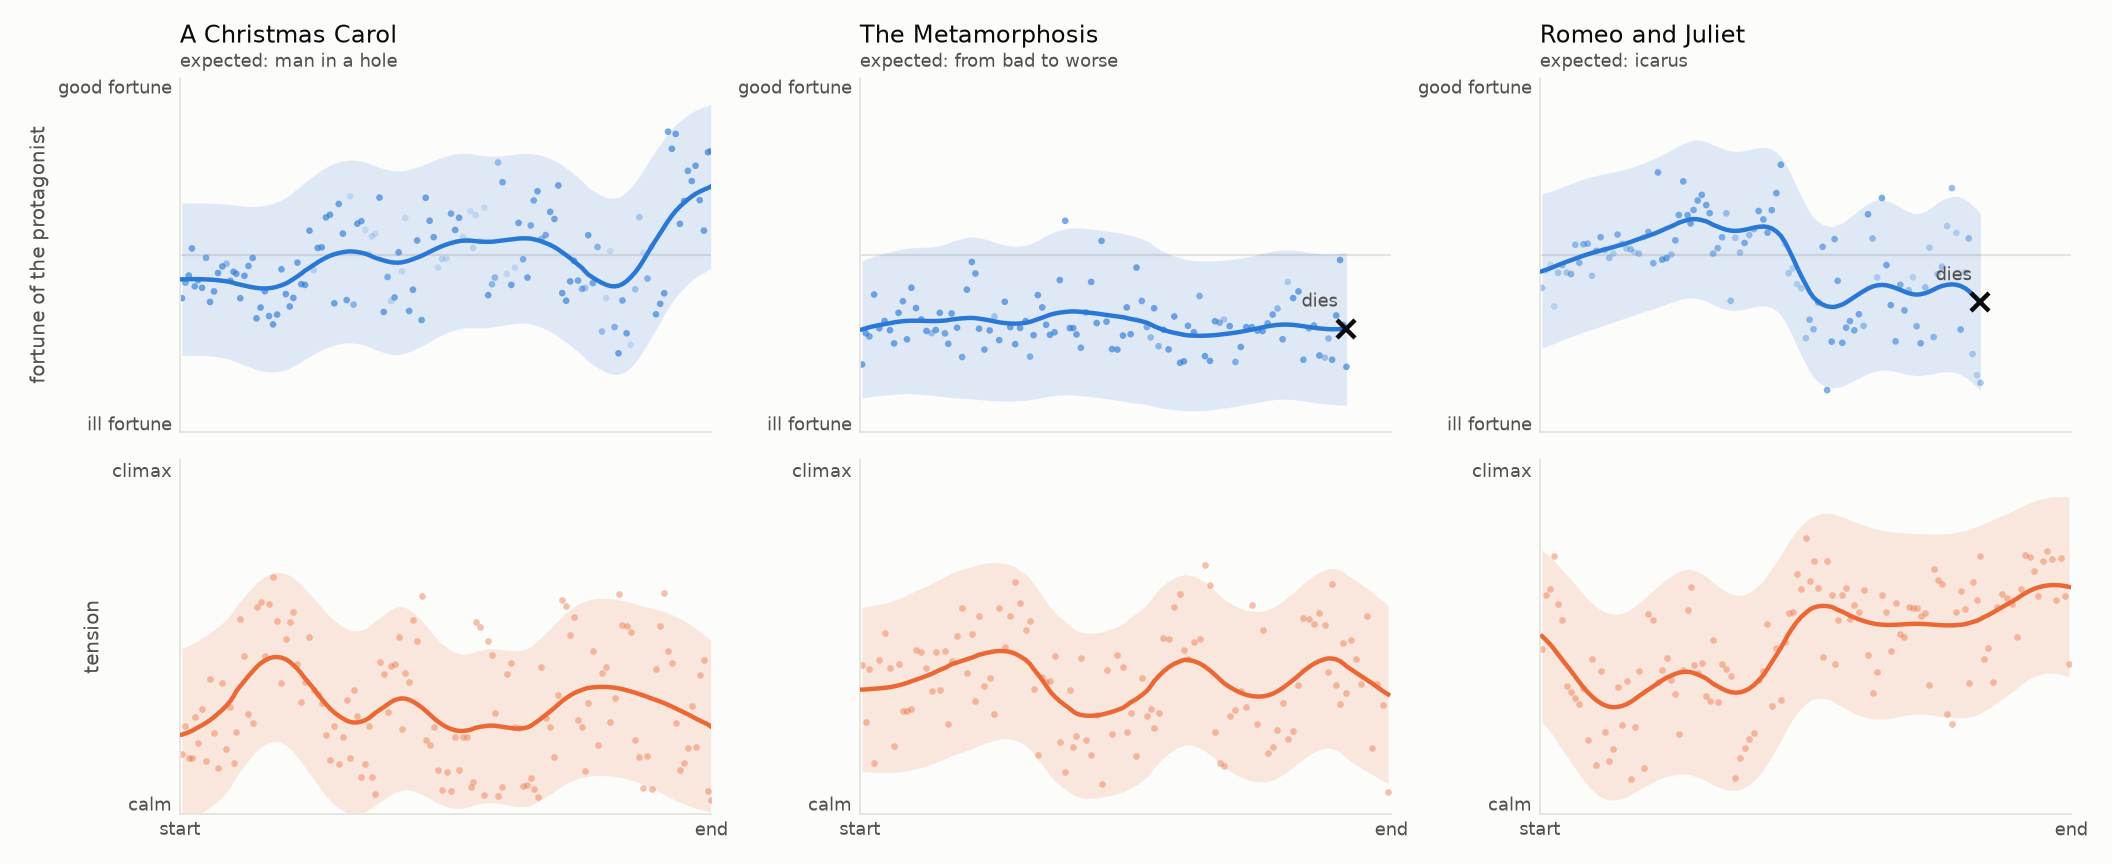
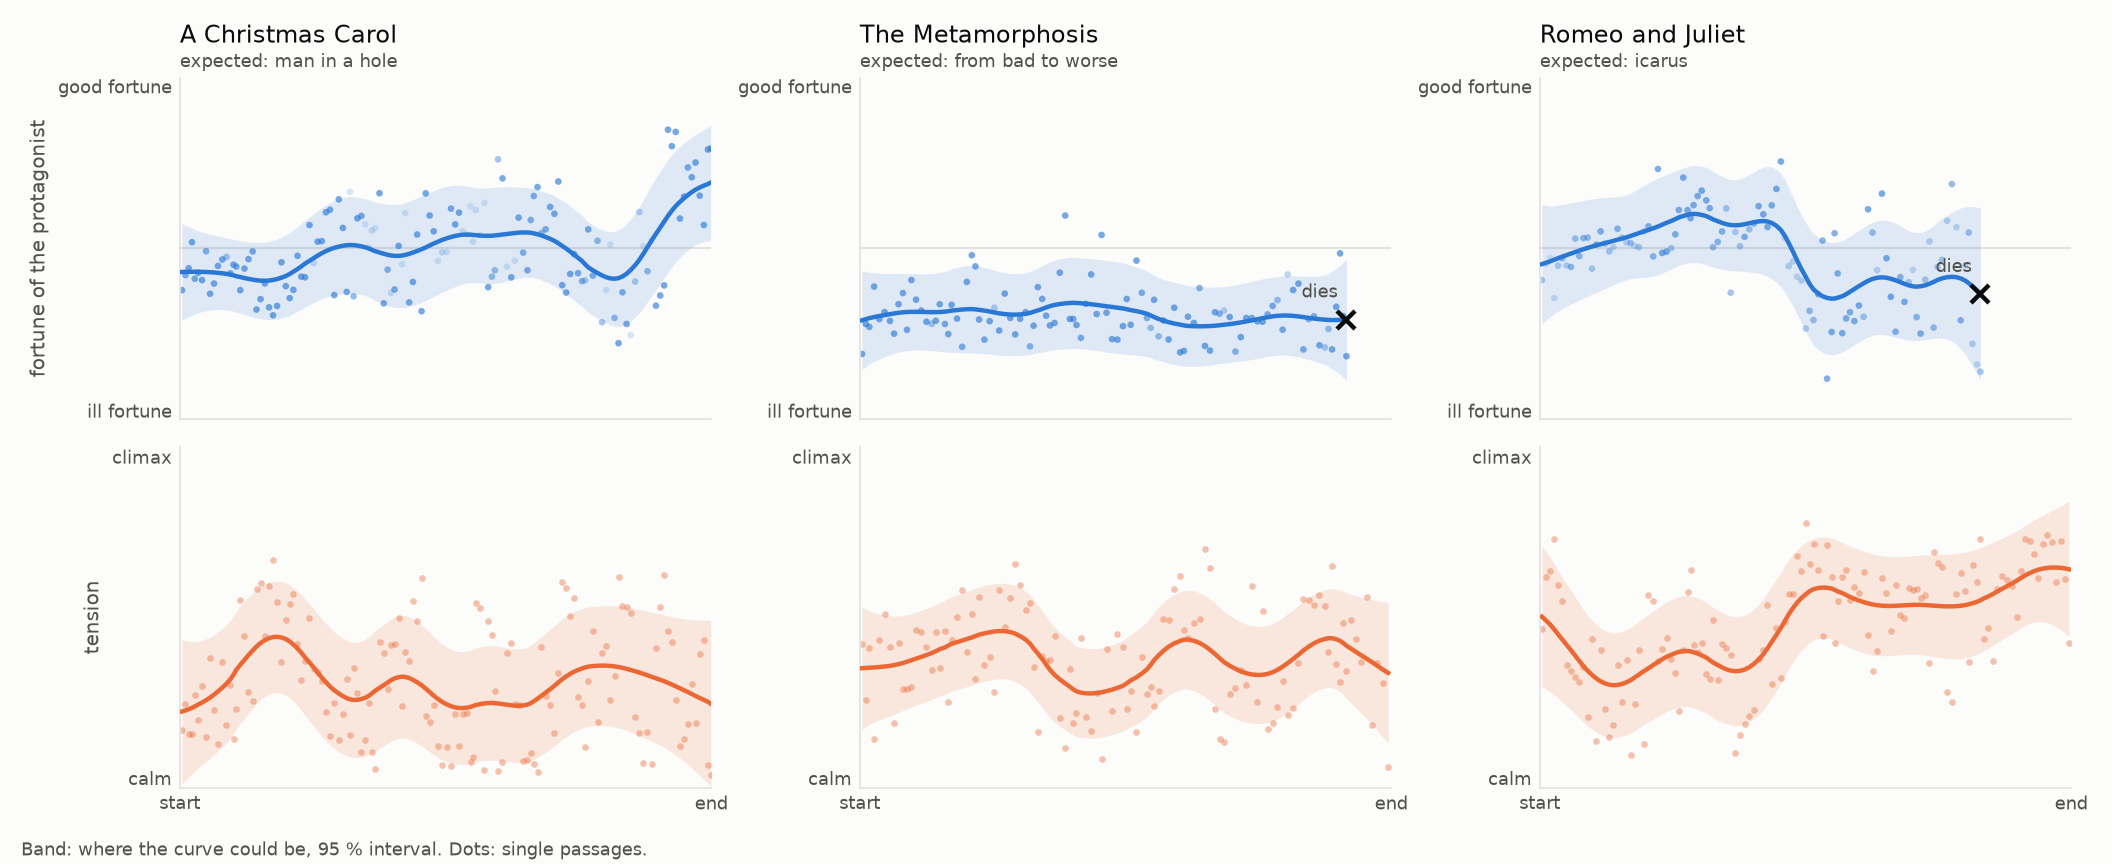
fix ALE-222: make the band the 95 % interval of the curve
fix ALE-223: add plot --relative, each curve on its own book's scale

The band combines Kev's doubt with passage disagreement over the effective
passage count, corrected for lag-1 autocorrelation. Calibrated on synthetic
readings (93-98 % coverage) and against the renamed Romeo and Juliet reading.
The relative view shows The Metamorphosis's shape is below the noise.

diff --git a/src/story_shapes/plot.py b/src/story_shapes/plot.py
@@ -18,6 +18,7 @@ MUTED = "#52514e"
 GRID = "#e4e3df"
 FORTUNE = "#2a78d6"
 TENSION = "#eb6834"
+RELATIVE_LIMIT = 3.2  # standard deviations shown in the relative view
 
 
 def load(path: Path) -> list[dict]:
@@ -25,10 +26,12 @@ def load(path: Path) -> list[dict]:
     return sorted(records, key=lambda record: record["index"])
 
 
-def series(readings: list[dict], question: str, n_levels: int, signed: bool, weights=None, sigma_frac=0.05):
-    """Per-passage values, the smoothed curve and the smoothed spread, all on the plotting scale.
+def series(readings: list[dict], question: str, n_levels: int, signed: bool, weights=None, sigma_frac=0.05,
+           relative=False):
+    """Per-passage values, the smoothed curve and the half-width of its 95 % band, on the plotting scale.
 
-    Signed scales run from -1 (lowest level) to +1; unsigned ones from 0 to 1.
+    Signed scales run from -1 (lowest level) to +1; unsigned ones from 0 to 1. With `relative`, all
+    three are moved onto the book's own scale (see `curve.relative`).
     """
     probabilities = [record["answers"][question]["probabilities"] for record in readings]
     levels = np.array([curve.mean_level(p) for p in probabilities])
@@ -38,7 +41,10 @@ def series(readings: list[dict], question: str, n_levels: int, signed: bool, wei
     else:
         values, spreads = levels / (n_levels - 1), spreads / (n_levels - 1)
     sigma = max(1.5, sigma_frac * len(readings))
-    return values, curve.smooth(values, weights, sigma), curve.smooth(spreads, weights, sigma)
+    line, half = curve.confidence(values, spreads, weights, sigma)
+    if relative:
+        line, values, half = curve.relative(line, values, half)
+    return values, line, half
 
 
 def _panel(ax, x, values, line, band, color, alphas):
@@ -55,7 +61,8 @@ def _panel(ax, x, values, line, band, color, alphas):
     ax.set_xticks([0, 0.5, 1], ["start", "", "end"])
 
 
-def draw(books: list[dict], readings_dir: Path, out: Path) -> None:
+def draw(books: list[dict], readings_dir: Path, out: Path, relative: bool = False) -> None:
+    """One column per book. With `relative`, each curve is drawn on its own book's scale."""
     fig, axes = plt.subplots(2, len(books), figsize=(4.4 * len(books), 5.4), sharex=True, squeeze=False)
     fig.patch.set_facecolor(SURFACE)
     for column, book in enumerate(books):
@@ -67,7 +74,8 @@ def draw(books: list[dict], readings_dir: Path, out: Path) -> None:
         dead = [record["answers"].get("dead", {}).get("noul", 0.0) for record in readings]
         cut = curve.death_cut(dead)
         end = len(readings) if cut is None else cut + 1
-        fortune = series(readings[:end], "fortune", len(FORTUNE_LEVELS), signed=True, weights=0.1 + 0.9 * present[:end])
+        fortune = series(readings[:end], "fortune", len(FORTUNE_LEVELS), signed=True, weights=0.1 + 0.9 * present[:end],
+                         relative=relative)
         top = axes[0][column]
         _panel(top, x[:end], *fortune, FORTUNE, alphas=0.15 + 0.5 * present[:end])
         if cut is not None:
@@ -75,21 +83,33 @@ def draw(books: list[dict], readings_dir: Path, out: Path) -> None:
             top.annotate("dies", (x[cut], fortune[1][-1]), xytext=(-4, 10), textcoords="offset points",
                          ha="right", color=MUTED, fontsize=8)
         top.axhline(0, color=GRID, linewidth=1, zorder=0)
-        top.set_ylim(-1.05, 1.05)
-        top.set_yticks([-1, 0, 1], ["ill fortune", "", "good fortune"])
+        if relative:
+            top.set_ylim(-RELATIVE_LIMIT, RELATIVE_LIMIT)
+            top.set_yticks([-2, 0, 2], ["worse than\nusual", "", "better than\nusual"])
+        else:
+            top.set_ylim(-1.05, 1.05)
+            top.set_yticks([-1, 0, 1], ["ill fortune", "", "good fortune"])
         top.set_title(book["title"], color=INK, fontsize=11, loc="left", pad=16)
         top.text(0, 1.02, f"expected: {book['expected_shape']}", transform=top.transAxes,
                  color=MUTED, fontsize=8, va="bottom")
 
-        tension = series(readings, "tension", len(TENSION_LEVELS), signed=False)
+        tension = series(readings, "tension", len(TENSION_LEVELS), signed=False, relative=relative)
         bottom = axes[1][column]
         _panel(bottom, x, *tension, TENSION, alphas=0.4)
-        bottom.set_ylim(-0.03, 1.03)
-        bottom.set_yticks([0, 1], ["calm", "climax"])
+        if relative:
+            bottom.axhline(0, color=GRID, linewidth=1, zorder=0)
+            bottom.set_ylim(-RELATIVE_LIMIT, RELATIVE_LIMIT)
+            bottom.set_yticks([-2, 0, 2], ["calmer than\nusual", "", "tenser than\nusual"])
+        else:
+            bottom.set_ylim(-0.03, 1.03)
+            bottom.set_yticks([0, 1], ["calm", "climax"])
 
     axes[0][0].set_ylabel("fortune of the protagonist", color=MUTED, fontsize=9)
     axes[1][0].set_ylabel("tension", color=MUTED, fontsize=9)
-    fig.tight_layout()
+    scale = "Each curve on its own book's scale: 0 is the book's average, ±1 one standard deviation. " if relative else ""
+    fig.text(0.01, 0.01, f"{scale}Band: where the curve could be, 95 % interval. Dots: single passages.",
+             color=MUTED, fontsize=8)
+    fig.tight_layout(rect=(0, 0.03, 1, 1))
     out.parent.mkdir(parents=True, exist_ok=True)
     fig.savefig(out, dpi=160, facecolor=SURFACE)
 

diff --git a/src/story_shapes/curve.py b/src/story_shapes/curve.py
@@ -34,11 +34,61 @@ def smooth(values, weights=None, sigma: float = 4.0) -> np.ndarray:
     protagonist does not appear; a passage with weight 0 does not pull the curve at all.
     """
     y = np.asarray(values, dtype=float)
-    positions = np.arange(len(y))
+    kernel = _kernel(len(y), weights, sigma)
+    return kernel @ y / kernel.sum(axis=1)
+
+
+def _kernel(n: int, weights, sigma: float) -> np.ndarray:
+    positions = np.arange(n)
     kernel = np.exp(-0.5 * ((positions[:, None] - positions[None, :]) / sigma) ** 2)
     if weights is not None:
         kernel = kernel * np.asarray(weights, dtype=float)[None, :]
-    return kernel @ y / kernel.sum(axis=1)
+    return kernel
+
+
+def lag1_autocorrelation(residuals) -> float:
+    """Correlation between each residual and the next one, floored at 0."""
+    r = np.asarray(residuals, dtype=float)
+    if len(r) < 3 or r[:-1].std() == 0 or r[1:].std() == 0:
+        return 0.0
+    return max(0.0, float(np.corrcoef(r[:-1], r[1:])[0, 1]))
+
+
+def confidence(values, spreads, weights=None, sigma: float = 4.0, z: float = 1.96) -> tuple[np.ndarray, np.ndarray]:
+    """The smoothed curve and the half-width of an interval around it: how far it could be off.
+
+    At each position the variance of what the kernel sees combines how torn the model is inside
+    each passage (`spreads`) with how much the passages disagree with the curve, and is divided by
+    the number of passages that effectively count, (Σw)² / Σw². That number shrinks at the ends of
+    the story, before a cut, and where passages carry little weight, so the band widens there.
+    Neighbouring passages are not independent (a gloomy chapter stays gloomy), so the effective
+    count is further scaled by (1 - ρ) / (1 + ρ), with ρ the lag-1 autocorrelation of the residuals.
+    """
+    y = np.asarray(values, dtype=float)
+    s = np.asarray(spreads, dtype=float)
+    kernel = _kernel(len(y), weights, sigma)
+    total = kernel.sum(axis=1)
+    line = kernel @ y / total
+    variance = (kernel * (s[None, :] ** 2 + (y[None, :] - line[:, None]) ** 2)).sum(axis=1) / total
+    counted = np.ones(len(y), bool) if weights is None else np.asarray(weights, dtype=float) > 0
+    rho = lag1_autocorrelation((y - line)[counted])
+    n_eff = total**2 / (kernel**2).sum(axis=1) * (1 - rho) / (1 + rho)
+    return line, z * np.sqrt(variance / n_eff)
+
+
+def relative(line, values, half) -> tuple[np.ndarray, np.ndarray, np.ndarray]:
+    """Put a curve on its own book's scale: 0 is the book's average, ±1 one standard deviation of the curve.
+
+    A story that stays bad from start to finish looks flat on the absolute scale; here its ups and
+    downs inside the bad fill the height. The per-passage `values` move with the line; the band's
+    `half` width is only scaled. A band that is wide on this scale means the shape is mostly noise
+    blown up.
+    """
+    line = np.asarray(line, dtype=float)
+    centre, scale = line.mean(), line.std()
+    if scale == 0:
+        scale = 1.0
+    return (line - centre) / scale, (np.asarray(values, dtype=float) - centre) / scale, np.asarray(half, dtype=float) / scale
 
 
 def death_cut(

diff --git a/tests/test_curve.py b/tests/test_curve.py
@@ -1,7 +1,7 @@
 import numpy as np
 import pytest
 
-from story_shapes.curve import death_cut, mean_level, smooth, spread, to_unit
+from story_shapes.curve import confidence, death_cut, lag1_autocorrelation, mean_level, relative, smooth, spread, to_unit
 
 
 def test_mean_level_of_a_certain_answer_is_that_level():
@@ -82,3 +82,65 @@ def test_a_death_followed_by_absence_is_not_revoked():
     dead = [0.0] * 3 + [0.9, 0.8, 0.85, 0.9] + [0.05, 0.05, 0.4]
     present = [1.0] * 3 + [0.9, 0.6, 0.6, 0.5] + [0.1, 0.2, 0.3]
     assert death_cut(dead, present=present, revoke=True) == 3
+
+
+def test_the_band_is_zero_when_every_passage_agrees_and_the_model_is_sure():
+    line, half = confidence([0.4] * 30, [0.0] * 30)
+    assert np.allclose(line, 0.4)
+    assert np.allclose(half, 0.0)
+
+
+def test_the_band_widens_when_the_model_is_torn():
+    _, sure = confidence([0.0] * 30, [0.1] * 30)
+    _, torn = confidence([0.0] * 30, [0.6] * 30)
+    assert (torn > sure).all()
+
+
+def test_the_band_widens_at_the_ends_where_fewer_passages_count():
+    _, half = confidence([0.0] * 41, [0.5] * 41, sigma=4)
+    assert half[0] > half[10] and half[-1] > half[20]
+
+
+def test_a_passage_with_zero_weight_does_not_widen_the_band():
+    values, weights = [0.0] * 21, [1.0] * 21
+    values[10], weights[10] = 5.0, 0.0
+    _, half = confidence(values, [0.2] * 21, weights)
+    _, clean = confidence([0.0] * 21, [0.2] * 21, weights)
+    assert np.allclose(half, clean)
+
+
+def test_lag1_autocorrelation_sees_runs_and_ignores_alternation():
+    assert lag1_autocorrelation([1, 1, 1, 1, -1, -1, -1, -1] * 3) > 0.5
+    assert lag1_autocorrelation([1, -1] * 12) == 0.0
+
+
+@pytest.mark.parametrize("rho", [0.0, 0.5])
+def test_the_95_band_covers_the_true_curve_about_95_percent_of_the_time(rho):
+    # passages drawn around a known curve, with noise that is independent or runs in streaks
+    rng = np.random.default_rng(7)
+    n, hits, total = 120, 0, 0
+    truth = 0.4 * np.sin(np.linspace(0, 2 * np.pi, n))
+    for _ in range(200):
+        noise = np.zeros(n)
+        for i in range(n):
+            noise[i] = (rho * noise[i - 1] if i else 0) + rng.normal(0, 0.35)
+        line, half = confidence(truth + noise, np.full(n, 0.3), sigma=6)
+        inner = slice(10, n - 10)  # the smoothing itself bends the curve at the ends
+        hits += (np.abs(line - truth)[inner] <= half[inner]).sum()
+        total += n - 20
+    assert 0.9 <= hits / total <= 0.995
+
+
+def test_relative_centres_and_scales_the_line_and_moves_passages_and_band_with_it():
+    raw = [-0.9, -0.7, -0.5, -0.7]
+    line, values, half = relative(raw, [-1.0, -0.5, -0.5, -1.0], [0.1] * 4)
+    assert line.mean() == pytest.approx(0) and line.std() == pytest.approx(1)
+    assert line.argmax() == 2
+    # a passage sitting on the curve stays on it
+    assert values[2] == pytest.approx(line[2])
+    assert np.allclose(half, 0.1 / np.std(raw))
+
+
+def test_relative_leaves_a_flat_curve_flat():
+    line, _, _ = relative([0.3] * 5, [0.3] * 5, [0.0] * 5)
+    assert np.allclose(line, 0)

diff --git a/src/story_shapes/cli.py b/src/story_shapes/cli.py
@@ -132,6 +132,7 @@ def main(argv: list[str] | None = None) -> int:
     plot_cmd = commands.add_parser("plot", help="draw the curves of books already read")
     plot_cmd.add_argument("books", nargs="+")
     plot_cmd.add_argument("--out", type=Path, default=ROOT / "data" / "plots" / "shapes.png")
+    plot_cmd.add_argument("--relative", action="store_true", help="draw each curve on its own book's scale")
     eval_cmd = commands.add_parser("eval", help="does the model read fortune or only tone? (ALE-198)")
     eval_cmd.add_argument("action", choices=["run", "report", "tune", "deaths"])
     eval_cmd.add_argument("--fresh", action="store_true", help="discard cached answers and start over")
@@ -173,7 +174,7 @@ def main(argv: list[str] | None = None) -> int:
     else:
         from story_shapes import plot
 
-        plot.draw([books[book_id] for book_id in ids], READINGS_DIR, args.out)
+        plot.draw([books[book_id] for book_id in ids], READINGS_DIR, args.out, relative=args.relative)
         print(args.out)
     return 0
 

diff --git a/README.md b/README.md
@@ -51,8 +51,20 @@ What that says:
   false death instead of the tomb. Rules tuned on 16 development stories (real, faked and dreamt
   deaths, `eval deaths`) did no better on the books: asked one passage at a time, "is the
   protagonist dead?" cannot tell a believed death from a real one.
-- The band shows how torn the model is on each passage; it will become the uncertainty of the
-  curve.
+- The band says how far the curve could be off: a 95 % interval that grows when passages
+  disagree, when Kev is torn between levels, and where few passages count (the ends, a cut,
+  passages without the protagonist). Neighbouring passages are not independent, so the count is
+  corrected for their correlation. Checked two ways: on synthetic readings around a known curve it
+  covers the truth 93–98 % of the time, and the renamed reading of *Romeo and Juliet* stays inside
+  it everywhere. Leaving out Kev's doubt halves the band but lets the renamed reading escape it on
+  15 % of the story, so the doubt stays in.
+- `plot --relative` draws each curve on its own book's scale (0 is the book's average, ±1 one
+  standard deviation). It answers the flat *Metamorphosis* honestly: the band then fills the whole
+  height, so Gregor's ups and downs inside the bad are below what 111 passages can resolve. The
+  absolute view says what can be said: his fortune stays clearly bad from start to end. Scrooge's
+  late rise and Romeo's fall keep their shape.
+
+  ![The same curves, each on its own book's scale](docs/relative.png)
 
 ## How it works
 

diff --git a/CLAUDE.md b/CLAUDE.md
@@ -19,7 +19,10 @@ Bitácora: ALE
   holds the text hash, chunking, questions and model, and `read` refuses to resume on a mismatch.
   Changing the chunking or the questions means rerunning with `--fresh`.
 - `story-shapes plot <book>...` turns the readings into curves: the expected level of each score,
-  smoothed over neighbouring passages, with the spread of the probabilities as the band.
+  smoothed over neighbouring passages. The band is a 95 % interval of the smoothed curve
+  (`curve.confidence`: kernel-weighted variance of Kev's doubt plus passage disagreement, over the
+  effective passage count, corrected for lag-1 autocorrelation). `--relative` puts each curve on
+  its own book's scale (`curve.relative`).
 
 ## Kev
 - A clone of jaredpalmer/kev sits next to this repo (`../kev`), served locally (MLX on Apple Silicon):
@@ -34,4 +37,4 @@ Bitácora: ALE
 ## Commands
 - `uv run pytest` — unit tests (chunking, curve maths, story slicing).
 - `uv run story-shapes read christmas-carol`
-- `uv run story-shapes plot christmas-carol metamorphosis romeo-and-juliet`
+- `uv run story-shapes plot christmas-carol metamorphosis romeo-and-juliet [--relative]`
